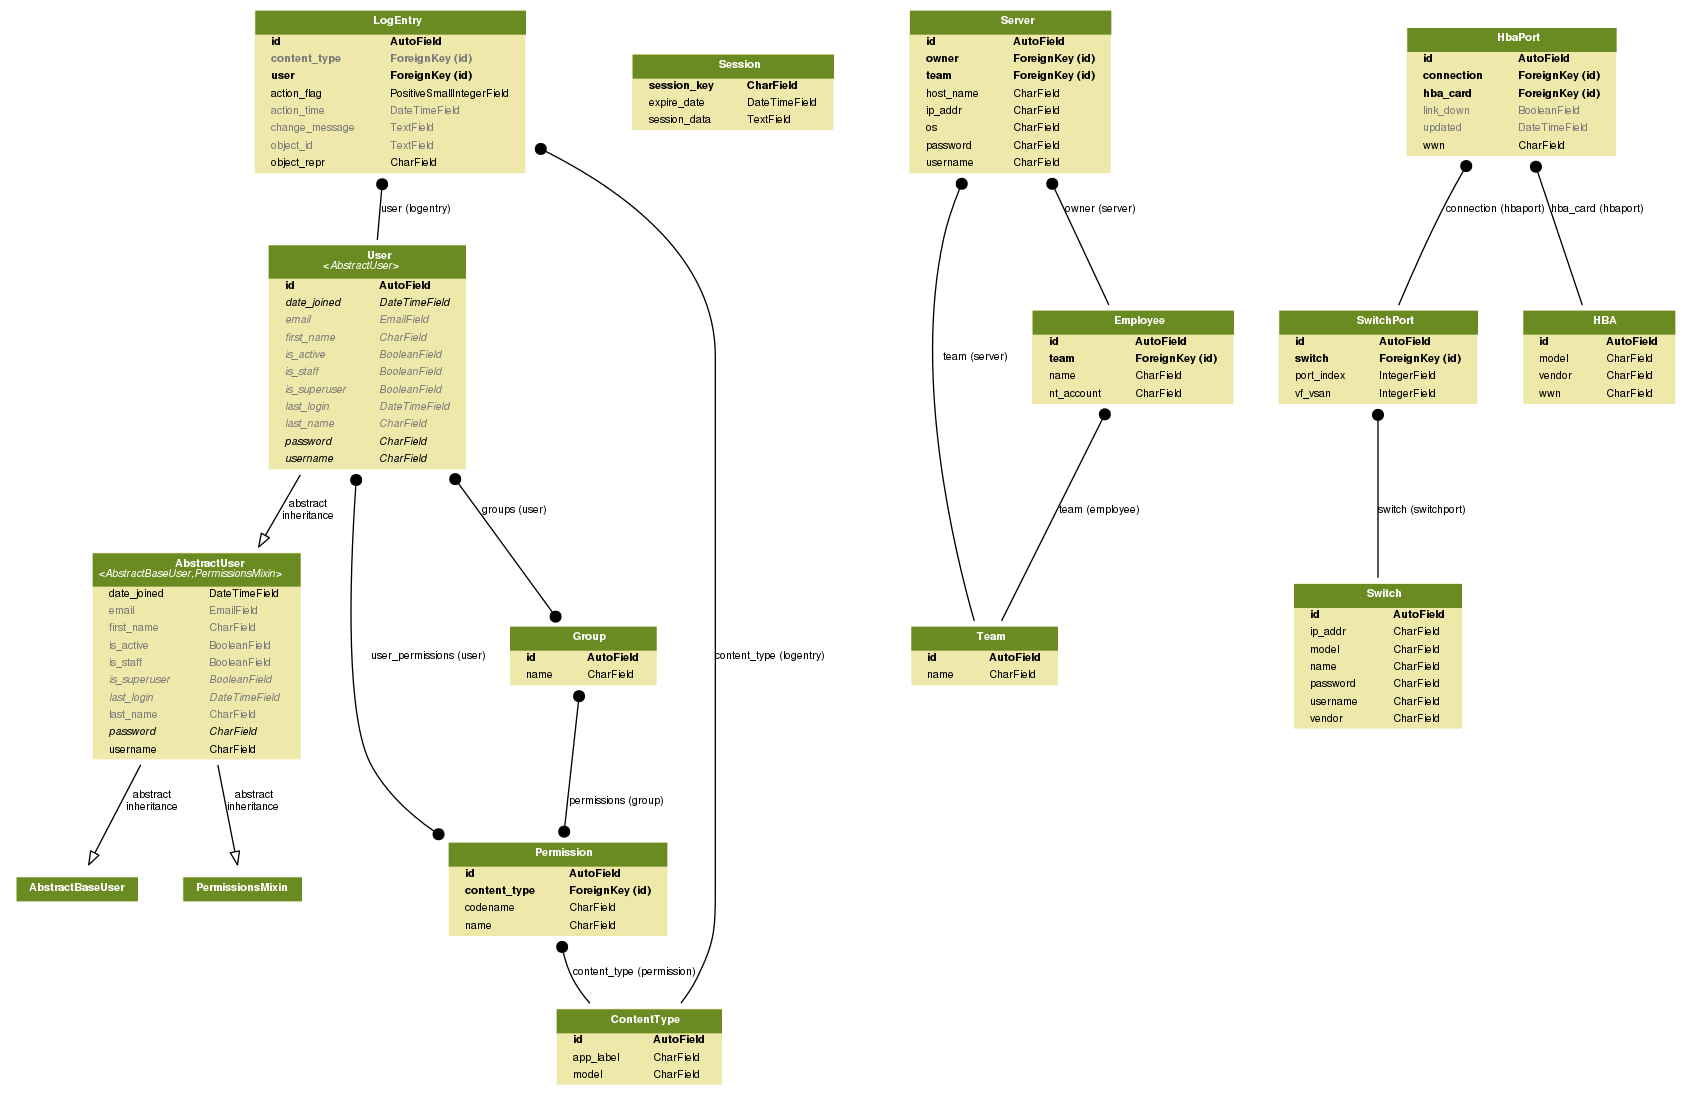
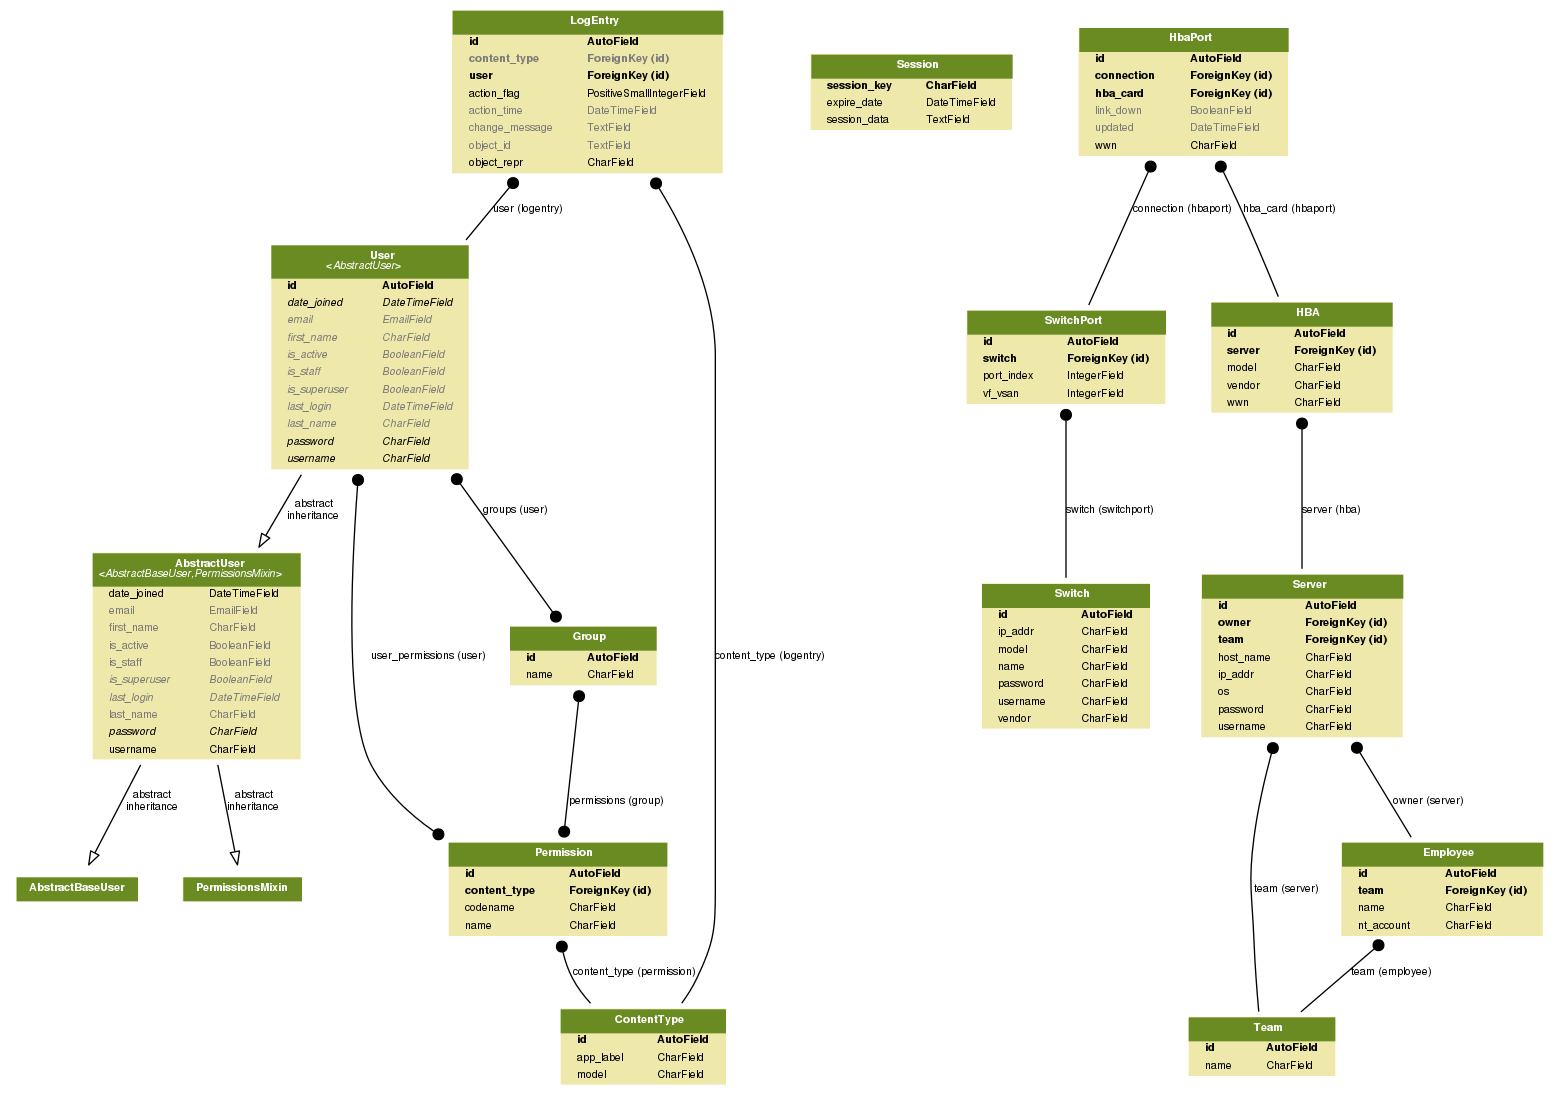
add relationship between HBA and server

diff --git a/forests/migrations/0003_hba_server.py b/forests/migrations/0003_hba_server.py
@@ -1,0 +1,19 @@
+# -*- coding: utf-8 -*-
+from __future__ import unicode_literals
+
+from django.db import migrations, models
+
+
+class Migration(migrations.Migration):
+
+    dependencies = [
+        ('forests', '0002_auto_20151019_0253'),
+    ]
+
+    operations = [
+        migrations.AddField(
+            model_name='hba',
+            name='server',
+            field=models.ForeignKey(default=None, to='forests.Server'),
+        ),
+    ]

diff --git a/forests/models.py b/forests/models.py
@@ -40,6 +40,7 @@ class HBA(models.Model):
     vendor = models.CharField(max_length=20)
     wwn = models.CharField(max_length=23)
     model = models.CharField(max_length=20)
+    server = models.ForeignKey('Server', default=None)
 
 
 class HbaPort(models.Model):
